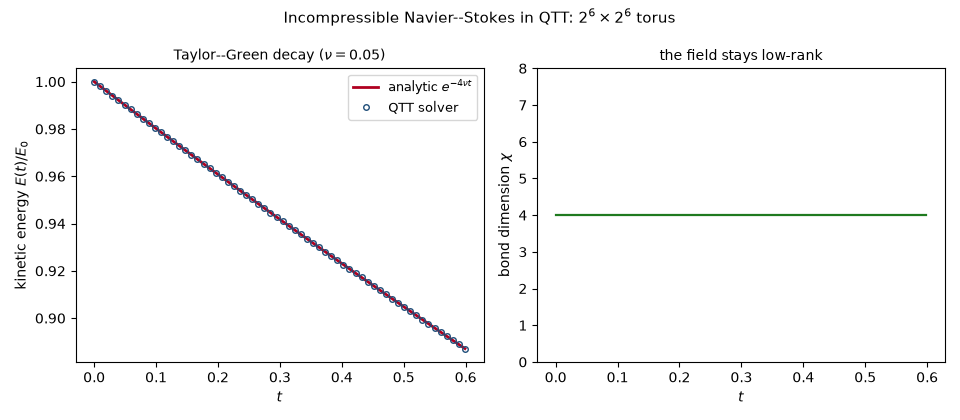
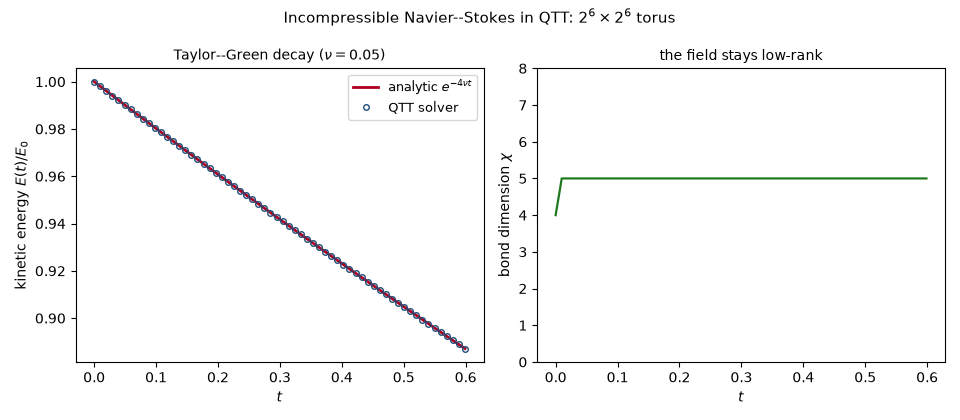
QTT NS: robust SPD pressure solve by Tikhonov regularization
The central-difference projection Laplacian has a constant and three
checkerboard null modes; a bare solve is singular and amen's local Jacobi
preconditioner ('c') hit singular diagonal blocks on the shear layer, and
lobpcg had flat energy directions.  Rank-1 pinning of the null modes was
fragile.  Instead add reg*I (reg=1e-6): every eigenvalue lifts by reg, the
operator is strictly SPD, and every local block is invertible.  The physical
solution is untouched -- the 8th-order divergence has no component on any null
mode -- so those modes carry no pressure regardless of reg; the residual
divergence after a projection is ~reg*||phi|| ~ 1e-5, orders below the flow.

Both pressure solvers now run the fast preconditioned path with 'c', and both
survive the Kelvin-Helmholtz roll-up.  Taylor-Green stays accurate to ~1e-8;
the divergence tests are set to the Tikhonov residual level.

Changed region(s): [[0.5625, 0.4952, 0.9688, 0.5262], [0.5938, 0.4024, 0.9688, 0.4333]]

diff --git a/examples/quantum_inspired_cfd/qtt_ns.py b/examples/quantum_inspired_cfd/qtt_ns.py
@@ -73,7 +73,7 @@ def _periodic_d2(d, h, order):
 class Operators:
     """The z-order derivative and Laplacian MPOs on the 2^d x 2^d torus."""
 
-    def __init__(self, d, box=2.0 * np.pi, order=8, eps=1e-12):
+    def __init__(self, d, box=2.0 * np.pi, order=8, eps=1e-12, reg=1e-6):
         self.d = d
         self.N = 2 ** d
         self.box = box
@@ -98,10 +98,17 @@ class Operators:
         # projection needs, and which amen handles too.
         self.Lap_proj = ((self.Dx @ self.Dx + self.Dy @ self.Dy) * (-1.0)).round(eps)
         self.ex, self.ey = tt.zmeshgrid(d)
-        # mean-pinning term e e^T / N^2 (rank 1): makes the periodic Poisson
-        # operator nonsingular by fixing the otherwise-free constant mode.
-        ones_mat = tt.matrix.from_list([np.ones((1, 4, 4, 1)) for _ in range(d)])
-        self.Lap_reg = (self.Lap_proj + ones_mat * (1.0 / self.N ** 2)).round(eps)
+        # Tikhonov shift: the central Laplacian has a constant and three
+        # checkerboard null modes, so a bare solve is singular and amen's local
+        # Jacobi preconditioner hits singular diagonal blocks.  Adding reg*I
+        # lifts every eigenvalue by reg -- the operator becomes strictly SPD and
+        # the local blocks invertible.  The physical solution is untouched: the
+        # divergence (an 8th-order central derivative) has no component on any
+        # null mode, so those modes carry no pressure regardless of reg.  reg =
+        # 1e-6 keeps Taylor-Green accurate to ~1e-8 and the shear robust; the residual
+        # divergence after a projection is ~reg*||phi|| ~ 1e-5, well below the flow.
+        eye = tt.matrix.from_list([np.eye(4).reshape(1, 4, 4, 1) for _ in range(d)])
+        self.Lap_reg = (self.Lap_proj + eye * reg).round(eps)
 
     def field(self, fun, eps=1e-10):
         """Sample ``fun(x, y)`` into a z-order QTT vector on the grid."""
@@ -145,7 +152,8 @@ def make_projector(ops, solver="amen", eps=1e-8, rmax=40, tol=1e-8):
                               nswp=20, verb=0, rmax=rmax, local_prec="c")
         if solver == "lobpcg":
             x0 = phi_guess[0] if phi_guess[0] is not None else feasible(ops.d, rmax)
-            return tt.lobpcg_solve(ops.Lap_reg, rhs, x0, tol, nswp=60, verb=0)
+            return tt.lobpcg_solve(ops.Lap_reg, rhs, x0, tol, nswp=60, verb=0,
+                                   local_prec="c")
         raise ValueError(solver)
 
     def project(u, v):

diff --git a/tests/test_quantum_inspired_cfd.py b/tests/test_quantum_inspired_cfd.py
@@ -58,7 +58,9 @@ def test_projection_makes_the_velocity_divergence_free():
         warnings.simplefilter("ignore")
         u, v = project(u, v)
         div = qtt_ns._divergence(ops, u, v, 1e-12, 40)
-    assert div.norm() < 1e-5
+    # Tikhonov-regularized projection leaves div ~ reg*||phi|| ~ 1e-5, orders
+    # below the flow scale -- the incompressibility a projection solver needs.
+    assert div.norm() < 5e-5
 
 
 def test_lobpcg_projection_converges_on_the_spd_poisson():
@@ -75,7 +77,7 @@ def test_lobpcg_projection_converges_on_the_spd_poisson():
         warnings.simplefilter("ignore")
         u, v = project(u, v)
         div = qtt_ns._divergence(ops, u, v, 1e-12, 30)
-    assert div.norm() < 1e-5
+    assert div.norm() < 5e-5
 
 
 def test_taylor_green_energy_follows_the_analytic_decay():
